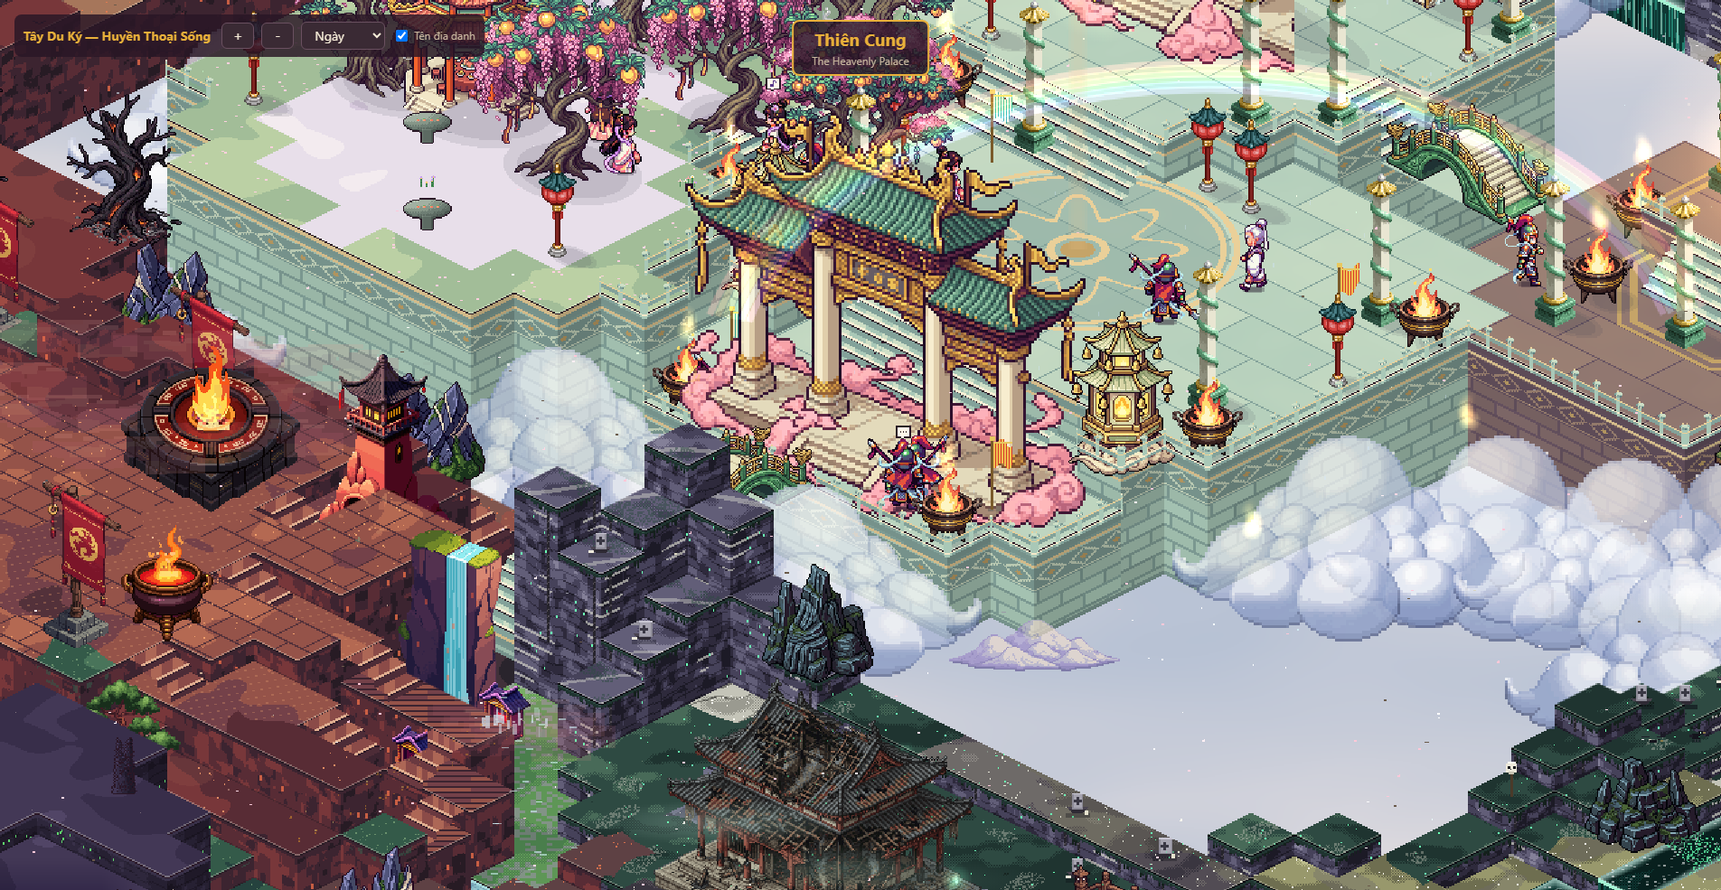
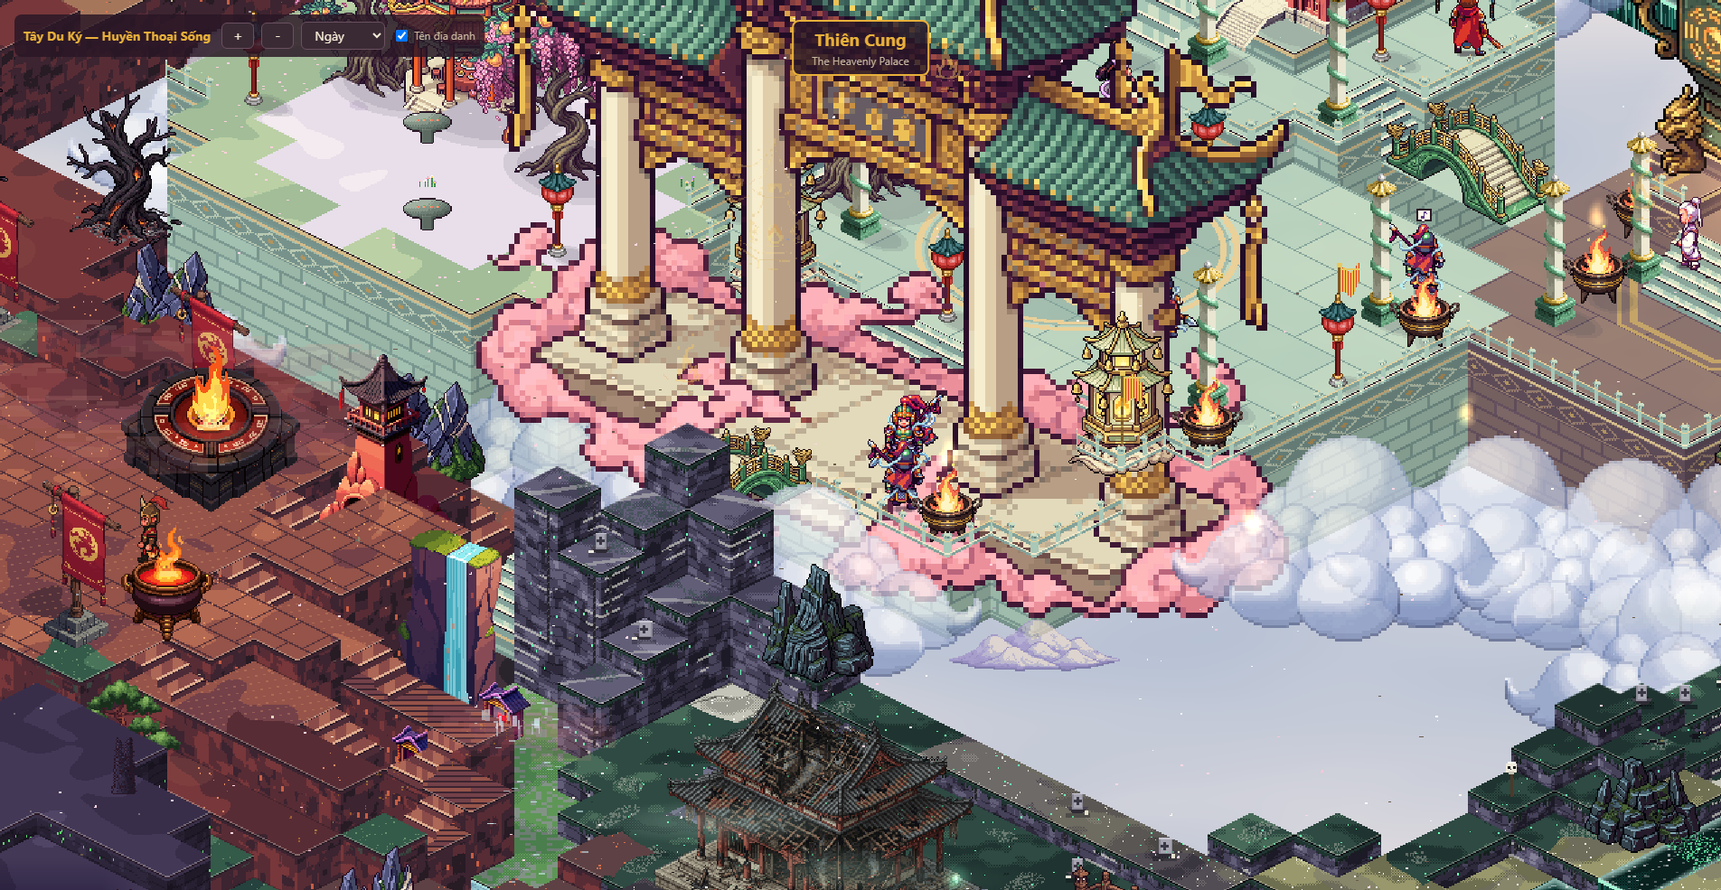
Thiên Cung phase 2: real tiers (3/5/8/10, furnace dais 9), double-size Nam Thiên Môn, Linh Tiêu hall and furnace, jade pond, furnace cracks and debris, kick beat in the furnace signature

diff --git a/tayduky/tw-tc2.js b/tayduky/tw-tc2.js
@@ -5,12 +5,21 @@
 //   3 the Peach Garden (west terrace: eight divine peach trees, pavilion, banquet tables, fairies)   4 the Eight-Trigram Furnace precinct (east bronze terrace: the great kiln on a stepped dais, braziers, talisman pillars, Laojun's pavilion)
 // plus the palace terrace in the north. Residents, minis and both signatures live in tw-tc2-data.js, the living effects in tw-tc2-fx.js.
 window.TW_TC2_BUILD = function (X) {
-  const { TWM, N, H, MAT, BIO, PATHC, RES, M, prop, poi, id, inMap, hash2 } = X;
+  const { TWM, N, H, MAT, BIO, PATHC, RES, M, prop, poi, id, inMap, hash2, set, addStair } = X;
   const B = TWM.bi.tc, inB = (i, j) => inMap(i, j) && BIO[id(i, j)] === B && MAT[id(i, j)] !== M.VOID;
   const keep = new Set(['tcrail', 'tccloud', 'tcbridge', 'stairs']);
   const mine = (i, j) => { i = Math.floor(i); j = Math.floor(j); return inMap(i, j) && BIO[id(i, j)] === B; };
   TWM.props = TWM.props.filter(p => !mine(p.i, p.j) || keep.has(p.kind)); TWM.pois = TWM.pois.filter(p => p.biome !== 'tc'); TWM.lights = TWM.lights.filter(l => l.biome !== 'tc');
   const F = TWM.tc2 = { B, lamps: [], fires: [], peach: [], trees: [], pillars: [], flags: [], failed: [], gate: null, furnace: null, court: [27, 21], garden: [19, 23], dais: [36, 13] };
+  // ---- terrain: real tiers (south plaza 3 -> court 5 -> ceremony terrace 8 -> the Linh Tiêu hall platform 10; garden 7; furnace yard 5 -> 7 -> ring 8 -> dais 9), a jade pond in the garden's west edge
+  const ell = (ca, cb, ra, rb, fn) => { for (let b = Math.floor(cb - rb - 1); b <= cb + rb + 1; b++) for (let a = Math.floor(ca - ra - 1); a <= ca + ra + 1; a++) { const d = ((a + 0.5 - ca) / ra) ** 2 + ((b + 0.5 - cb) / rb) ** 2; if (inB(a, b) && d < 1) fn(a, b, d); } };
+  for (let b = 13; b <= 15; b++) for (let a = 17; a <= 26; a++) if (inB(a, b)) set(a, b, 8, M.HEAVENPAVE);
+  for (let b = 10; b <= 12; b++) for (let a = 19; a <= 26; a++) if (inB(a, b)) set(a, b, 10, M.HEAVENPAVE);
+  for (let a = 21; a <= 24; a++) { addStair(id(a, 16), id(a, 15)); PATHC[id(a, 16)] = PATHC[id(a, 15)] = 1; }
+  for (let a = 22; a <= 24; a++) { addStair(id(a, 13), id(a, 12)); PATHC[id(a, 13)] = PATHC[id(a, 12)] = 1; }
+  ell(36.5, 12.5, 3.7, 2.7, (a, b) => set(a, b, 8, M.BRONZE)); ell(36.5, 12.5, 2.5, 1.8, (a, b) => set(a, b, 9, M.BRONZE)); for (let a = 35; a <= 37; a++) set(a, 14, 7, M.BRONZE);
+  for (let b = 20; b <= 22; b++) for (let a = 14; a <= 15; a++) if (inB(a, b)) set(a, b, 6, M.POOL); TWM.water.push({ type: 'ell', c: [15.5, 21.5], rx: 1.5, ry: 2.2, mat: M.POOL });
+  for (let k = 0; k < N * N; k++) { if (BIO[k] !== B || MAT[k] === M.VOID || MAT[k] === M.CLOUD || MAT[k] === M.POOL) continue; const i = k % N, j = Math.floor(k / N); for (const [da, db] of [[1, 0], [0, 1]]) { const z = id(i + da, j + db); if (BIO[z] !== B || MAT[z] === M.CLOUD || MAT[z] === M.VOID || MAT[z] === M.POOL || MAT[z] === M.HEAVENBRIDGE || MAT[k] === M.HEAVENBRIDGE) continue; if (Math.abs(H[k] - H[z]) === 1 && !TWM.stairs.has(k + ',' + z)) { TWM.stairs.set(k + ',' + z, 1); TWM.stairs.set(z + ',' + k, 1); } } }
   const walk = m => m === M.HEAVENPAVE || m === M.HEAVEN || m === M.PEACHLAWN || m === M.BRONZE || m === M.HEAVENBRIDGE;
   const blocked = new Set(), rb = () => { blocked.clear(); for (const p of TWM.props) if (p.block && mine(p.i, p.j)) { const fw = p.fp ? p.fp[0] : 1, fh = p.fp ? p.fp[1] : 1; for (let q = 0; q < fh; q++) for (let r = 0; r < fw; r++) blocked.add(id(p.i + r, p.j + q)); } };
   const free = (a, b) => inB(a, b) && walk(MAT[id(a, b)]) && !blocked.has(id(a, b));
@@ -20,7 +29,7 @@ window.TW_TC2_BUILD = function (X) {
   const Q = (kind, a, b, o) => { const s = snap(a, b, 2); if (!s) { F.failed.push('poi:' + kind + '@' + a + ',' + b); return null; } const p = poi(kind, 'tc', s[0], s[1], o); if (p) RES[id(s[0], s[1])] = 1; return p; };
   const LT = (a, b, r, col, kind) => TWM.lights.push({ biome: 'tc', i: a, j: b, r, col, kind: kind || 'lantern' });
   // ---- 1. Nam Thiên Môn: the great gate across the south plaza, with lantern towers either side
-  F.gate = L1('tcgate', 25, 26, { fp: [7, 2], piers: [[0, 1], [2, 1], [4, 0], [6, 0]], v: 0 });
+  F.gate = L1('tcgate', 24, 26, { fp: [9, 2], piers: [[0, 1], [2, 1], [6, 0], [8, 0]], v: 0 });
   for (const [a, b] of [[24, 25], [32, 25]]) { if (L1('tclantern', a, b, { v: 1 })) { F.lamps.push([a, b]); LT(a, b, 64, '255,202,125'); } }
   for (const [a, b] of [[25, 28], [31, 28]]) if (L1('tcbrazier', a, b, { v: 0 })) { F.fires.push([a, b]); LT(a, b, 50, '255,159,80', 'fire'); }
   // ---- 2. the Court of Heaven
@@ -28,9 +37,9 @@ window.TW_TC2_BUILD = function (X) {
   for (const [a, b] of [[23, 21], [33, 21], [27, 24], [27, 18]]) { if (L1('tcsilklamp', a, b, { v: 1 })) { F.lamps.push([a, b]); LT(a, b, 48, '255,202,125'); } }
   for (const [a, b] of [[22, 19], [34, 19], [22, 24], [34, 24]]) if (L1('tcbrazier', a, b, { v: 0 })) { F.fires.push([a, b]); LT(a, b, 46, '255,159,80', 'fire'); }
   // ---- the palace terrace (north): two halls, the gatehouse and the inner gate
-  L1('tcgate', 20, 14, { fp: [7, 2], piers: [[0, 1], [2, 1], [4, 0], [6, 0]], v: 0 }); L1('tcgatehouse', 22, 10, { fp: [2, 2], v: 0 }); L1('tcpalace', 18, 11, { fp: [2, 2], v: 0 }); L1('tcpalace', 26, 11, { fp: [2, 2], v: 0, flip: true });
-  for (const [a, b] of [[20, 17], [27, 17], [19, 12], [29, 12]]) if (L1('tcpillar', a, b, { v: 0 })) F.pillars.push([a, b]);
-  for (const [a, b] of [[22, 18], [27, 18], [21, 13], [29, 13]]) { if (L1('tcsilklamp', a, b, { v: 1 })) { F.lamps.push([a, b]); LT(a, b, 48, '255,202,125'); } }
+  F.hall = L1('tcpalace', 22, 10, { fp: [2, 2], v: 0, big: true }); L1('tcpalace', 17, 11, { fp: [2, 2], v: 1 }); L1('tcpalace', 27, 11, { fp: [2, 2], v: 0, flip: true }); L1('tcgatehouse', 20, 14, { fp: [2, 2], v: 0 }); L1('tcgatehouse', 25, 14, { fp: [2, 2], v: 0 });
+  for (const [a, b] of [[21, 16], [25, 16], [19, 13], [26, 13], [20, 11], [26, 11]]) if (L1('tcpillar', a, b, { v: 0 })) F.pillars.push([a, b]);
+  for (const [a, b] of [[22, 17], [24, 17], [18, 14], [27, 14]]) { if (L1('tcsilklamp', a, b, { v: 1 })) { F.lamps.push([a, b]); LT(a, b, 48, '255,202,125'); } }
   // ---- 3. the Peach Garden (west terrace)
   const TREES = [[15, 20], [17, 19], [19, 19], [21, 20], [15, 23], [18, 22], [21, 23], [16, 26], [20, 26], [23, 22]];
   TREES.forEach(([a, b], n) => { const p = L1('tcpeach', a, b, { v: n % 2 }); if (p) { F.trees.push([p.i, p.j]); Q('orchard', p.i + 1, p.j, { face: 'left', cap: 1 }); } });
@@ -39,10 +48,10 @@ window.TW_TC2_BUILD = function (X) {
   for (const [a, b] of [[15, 21], [16, 23], [18, 24], [19, 28], [21, 27], [14, 27], [22, 25], [17, 21], [20, 22]]) L1('flowers', a, b, { block: false });
   for (const [a, b] of [[22, 20], [14, 24], [15, 28], [22, 28]]) { if (L1('tcsilklamp', a, b, { v: 1 })) { F.lamps.push([a, b]); LT(a, b, 48, '255,190,200'); } }
   // ---- 4. the Eight-Trigram Furnace: the kiln on the bronze terrace, flanked by braziers and talisman pillars
-  F.furnace = L1('tcfurnace', 35, 12, { fp: [2, 2], v: 1 }); LT(36, 13, 130, '255,143,60', 'fire'); LT(36, 12, 70, '255,200,120', 'fire');
-  for (const [a, b] of [[33, 14], [38, 16], [34, 11], [39, 12], [37, 15], [34, 16]]) if (L1('tcbrazier', a, b, { v: 0 })) { F.fires.push([a, b]); LT(a, b, 52, '255,159,80', 'fire'); }
-  for (const [a, b] of [[34, 13], [38, 13], [36, 10], [36, 16]]) if (L1('tcpillar', a, b, { v: 0 })) F.pillars.push([a, b]);
-  L1('tcpavilion', 38, 11, { fp: [2, 2], v: 0 });
+  F.furnace = L1('tcfurnace', 35, 12, { fp: [2, 2], v: 1, big: true }); LT(36, 13, 130, '255,143,60', 'fire'); LT(36, 12, 70, '255,200,120', 'fire');
+  for (const [a, b] of [[33, 14], [39, 15], [33, 11], [40, 12], [38, 16], [34, 16]]) if (L1('tcbrazier', a, b, { v: 0 })) { F.fires.push([a, b]); LT(a, b, 52, '255,159,80', 'fire'); }
+  for (const [a, b] of [[34, 15], [38, 15], [34, 10], [39, 10]]) if (L1('tcpillar', a, b, { v: 0 })) F.pillars.push([a, b]);
+  L1('tcpavilion', 40, 13, { fp: [2, 2], v: 0 });
   // ---- posts (same kinds as the pilot so the existing activities keep working, plus new ones)
   Q('court', 27, 21, { cap: 15 }); Q('banquet', 19, 27, { cap: 12 }); Q('furnace', 36, 14, { cap: 2, face: 'up' });
   for (const [a, b] of [[23, 17], [27, 17]]) Q('gatepost', a, b, { cap: 3 });
@@ -50,8 +59,8 @@ window.TW_TC2_BUILD = function (X) {
   for (const [a, b] of [[26, 28], [30, 28]]) Q('southgate', a, b, { cap: 3, face: 'up' });
   for (const [a, b] of [[34, 21], [30, 22], [25, 21]]) Q('drill', a, b, { cap: 4 });
   for (const [a, b] of [[37, 14], [35, 15]]) Q('flame_watch', a, b, { cap: 2, face: 'up' });
-  for (const [a, b] of [[28, 13], [23, 12]]) Q('terrace', a, b, { cap: 3, face: 'down' });
-  F.flags = [[24, 20], [32, 20], [25, 27], [31, 27], [36, 10], [20, 12]];
+  for (const [a, b] of [[23, 14], [21, 12]]) Q('terrace', a, b, { cap: 3, face: 'down' });
+  F.flags = [[24, 20], [32, 20], [24, 25], [32, 25], [34, 10], [19, 11], [26, 12]];
   TWM.homes = TWM.homes || {};
 };
 window.TW_TC2_FINAL = function (X) {

diff --git a/tayduky/tw-tc2-data.js b/tayduky/tw-tc2-data.js
@@ -6,7 +6,7 @@
 (function () {
   const S = TWS, H = S.H, D = window.TW_DATA, B = 'tc', T = 8;
   const clamp = (v, a, b) => Math.max(a, Math.min(b, v)), ease = (v, t, r, dt) => Math.abs(t - v) <= r * dt ? t : v + Math.sign(t - v) * r * dt;
-  const newState = () => ({ heat: 0.3, heatT: 0.3, lid: 0, lidT: 0, runes: 0, runesT: 0, storm: 0, stormT: 0, flash: 0, shake: 0, shakeT: 0, bursts: [], flocks: [], peachfall: [], rainbow: 0, rainbowT: 0, lampPulse: 0, cloud: 0, cloudT: 0, petalBoost: 0, caption: null, capT: 0, focus: null, focusT: 0, flameUp: 0, lidFly: null });
+  const newState = () => ({ heat: 0.3, heatT: 0.3, lid: 0, lidT: 0, runes: 0, runesT: 0, storm: 0, stormT: 0, flash: 0, shake: 0, shakeT: 0, bursts: [], flocks: [], peachfall: [], rainbow: 0, rainbowT: 0, lampPulse: 0, cloud: 0, cloudT: 0, petalBoost: 0, caption: null, capT: 0, focus: null, focusT: 0, flameUp: 0, lidFly: null, debris: [], crack: 0 });
   const baseInit = S.init, baseTick = S.tick;
   S.init = function (seed) { S.tc2 = newState(); baseInit(seed); };
   const timers = []; const later = (sec, fn) => timers.push({ at: S.t + sec, fn });
@@ -15,7 +15,7 @@
     f.heat = ease(f.heat, f.heatT, 0.5, dt); f.lid = ease(f.lid, f.lidT, 2, dt); f.runes = ease(f.runes, f.runesT, 0.8, dt); f.storm = ease(f.storm, f.stormT, 0.35, dt); f.rainbow = ease(f.rainbow, f.rainbowT, 0.25, dt); f.cloud = ease(f.cloud, f.cloudT, 0.25, dt);
     f.flash = Math.max(0, f.flash - dt * 1.8); f.shake = ease(f.shake, f.shakeT, 1.6, dt); f.lampPulse = Math.max(0, f.lampPulse - dt * 0.5); f.flameUp = Math.max(0, f.flameUp - dt * 0.5); f.petalBoost = Math.max(0, f.petalBoost - dt * 0.05);
     for (const q of f.flocks) { q.t += dt; q.x += q.vx * dt; q.y += q.vy * dt; } f.flocks = f.flocks.filter(q => q.t < q.life); for (const b of f.bursts) b.t += dt; f.bursts = f.bursts.filter(b => b.t < 3.2);
-    for (const q of f.peachfall) q.t += dt; f.peachfall = f.peachfall.filter(q => q.t < 3.5); if (f.lidFly) { f.lidFly.t += dt; if (f.lidFly.t > 3) f.lidFly = null; }
+    for (const q of f.peachfall) q.t += dt; f.peachfall = f.peachfall.filter(q => q.t < 3.5); if (f.lidFly) { f.lidFly.t += dt; if (f.lidFly.t > 3) f.lidFly = null; } for (const d of f.debris) { d.t += dt; d.x += d.vx * dt; d.y += d.vy * dt; d.z += d.vz * dt; d.vz -= 140 * dt; if (d.z < 0) { d.z = 0; d.vz *= -0.3; d.vx *= 0.6; d.vy *= 0.6; } } f.debris = f.debris.filter(d => d.t < 4); f.crack = ease(f.crack, f.crackT || 0, 0.8, dt);
     for (let i = timers.length - 1; i >= 0; i--) if (S.t >= timers[i].at) { const t = timers.splice(i, 1)[0]; t.fn(); }
   };
   const burst = (x, y, kind) => S.tc2.bursts.push({ x, y, t: 0, kind: kind || 'gold' });
@@ -77,14 +77,14 @@
   O.tc_f_enter = (R, o) => { const k = king(); if (!k) { R.wait = 1; return; } k.story = R; k.hidden = false; k.alpha = 1; focus(COURT, 8); cap('Ngộ Không bị giải vào Lò Bát Quái', 'Wukong is marched to the Eight-Trigram Furnace', 6);
     const f = FURN(); H.assign(k, [H.go(COURT[0], COURT[1], { run: 1.2 }), H.go(f[0] - 6, f[1] + 8, { run: 3.6 }), { k: 'bubble', kind: 'excl' }, { k: 'idle', t: 600 }], 'story'); pend(R, () => k.cur && k.cur.k === 'idle'); };
   O.tc_f_seal = (R, o) => { const f = S.tc2, k = king(); f.lidT = 1; f.heatT = 1; f.runesT = 1; f.stormT = 0.5; focus(FURN(), 10); cap('Nắp lò đóng lại — phù chú xoay tròn', 'The lid shuts; the talismans spin', 5); if (k) { k.hidden = true; burst(...FURN(), 'gold'); } R.wait = o.t || 3.5; };
-  O.tc_f_burn = (R, o) => { const f = S.tc2; f.heatT = 1; f.flameUp = 1; f.stormT = 1; f.shakeT = 0.35; focus(FURN(), 10); cap('Lửa lên cao — mây đen kéo tới, mặt đất rung', 'The fire climbs; black clouds gather; the ground trembles', 6);
+  O.tc_f_burn = (R, o) => { const f = S.tc2; f.crackT = 1; f.heatT = 1; f.flameUp = 1; f.stormT = 1; f.shakeT = 0.35; focus(FURN(), 10); cap('Lửa lên cao — mây đen kéo tới, mặt đất rung', 'The fire climbs; black clouds gather; the ground trembles', 6);
     for (let q = 0; q < 5; q++) later(q * 1.4, () => { burst(FURN()[0] + (S.R() - 0.5) * 16, FURN()[1], 'ember'); f.shakeT = 0.35 + q * 0.12; f.flameUp = 1; }); for (const a of fairies(4)) look(FURN(), [a]); R.wait = o.t || 7; };
   O.tc_f_break = (R, o) => { const f = S.tc2, k = king(), fp = FURN(); f.lidT = 0; f.lidFly = { t: 0 }; f.flash = 1.2; f.shakeT = 1.4; f.runesT = 0; f.heatT = 1; focus(COURT, 10); cap('Ngộ Không đạp tung lò bay ra!', 'Wukong kicks the furnace apart and bursts out!', 6);
-    burst(fp[0], fp[1], 'shock'); later(0.4, () => burst(fp[0], fp[1], 'gold')); later(0.9, () => burst(COURT[0], COURT[1], 'ember')); flock(18, fp[0], fp[1], -6, -10, 14);
-    if (k) { k.hidden = false; k.x = fp[0]; k.y = fp[1] - 4; H.assign(k, [{ k: 'mount' }, { k: 'soar', x: COURT[0], y: COURT[1], lift: 90, speed: 62 }, { k: 'flip', t: 0.7, rise: 22, keepFly: true }, { k: 'land', t: 0.6 }, { k: 'act', t: 1.2 }, { k: 'idle', t: 600 }], 'story'); }
+    burst(fp[0], fp[1], 'shock'); f.crackT = 0; for (let q = 0; q < 18; q++) { const a = q * 0.35 + S.R(); f.debris.push({ x: fp[0], y: fp[1] - 6, z: 30 + S.R() * 50, vx: Math.cos(a) * (30 + S.R() * 50), vy: Math.sin(a) * (20 + S.R() * 30) - 10, vz: 60 + S.R() * 110, t: 0, s: 3 + Math.floor(S.R() * 4), r: S.R() * 6 }); } later(0.4, () => burst(fp[0], fp[1], 'gold')); later(0.9, () => burst(COURT[0], COURT[1], 'ember')); flock(18, fp[0], fp[1], -6, -10, 14);
+    if (k) { k.hidden = false; k.alpha = 1; k.x = fp[0]; k.y = fp[1] + 7; H.assign(k, [{ k: 'face', dir: 'up' }, { k: 'act', t: 0.7 }, { k: 'mount' }, { k: 'soar', x: COURT[0], y: COURT[1], lift: 90, speed: 62 }, { k: 'flip', t: 0.7, rise: 22, keepFly: true }, { k: 'land', t: 0.6 }, { k: 'act', t: 1.2 }, { k: 'idle', t: 600 }], 'story'); }
     scatter(guards(6), fp); for (const a of fairies(6)) scatter([a], fp); later(1.6, () => { f.shakeT = 0; f.stormT = 0.4; }); R.wait = o.t || 4; pend(R, () => !k || (k.cur && k.cur.k === 'idle')); };
   O.tc_f_land = (R, o) => { const f = S.tc2; f.petalBoost = 1; f.flash = 0.4; focus(COURT, 8); cap('Thiên binh hoảng loạn tản ra', 'The heavenly guard scatters in panic', 5); burst(COURT[0], COURT[1], 'shock'); R.wait = o.t || 3; };
-  O.tc_f_settle = (R, o) => { const f = S.tc2; f.heatT = 0.3; f.stormT = 0; f.runesT = 0; f.shakeT = 0; f.lidT = 0; focus(FURN(), 8); cap('Lò dịu dần — Thiên Cung trở lại yên tĩnh', 'The furnace dies down; the palace grows calm again', 5); O.tc_release(R, o); R.wait = o.t || 3; };
+  O.tc_f_settle = (R, o) => { const f = S.tc2; f.heatT = 0.3; f.stormT = 0; f.runesT = 0; f.shakeT = 0; f.lidT = 0; f.crackT = 0; focus(FURN(), 8); cap('Lò dịu dần — Thiên Cung trở lại yên tĩnh', 'The furnace dies down; the palace grows calm again', 5); O.tc_release(R, o); R.wait = o.t || 3; };
   O.tc_peace = (R, o) => { const f = S.tc2; f.heatT = 0.3; f.stormT = 0; f.runesT = 0; f.shakeT = 0; f.lidT = 0; f.focus = null; f.cloudT = 0; f.rainbowT = 0; O.tc_release(R, o); };
   D.beacon.tc = '255,211,150';
   const old = D.biomes.tc;

diff --git a/tayduky/tw-tc2-fx.js b/tayduky/tw-tc2-fx.js
@@ -16,12 +16,20 @@ window.TWFX = window.TWFX || {};
   const scr = (R, x, y, dz) => [R.wx(x, y), R.wy(x, y, ground(x, y) + (dz || 0))];
   function crane(g, x, y, t, ph, face) { const fl = Math.sin(t * 3.4 + ph), up = fl > 0 ? 3 : -2; px(g, x - 5, y, 11, 3, '#fffdf4'); px(g, x + 5 * face, y - 1, 3, 2, '#fffdf4'); px(g, x + 8 * face, y - 1, 2, 1, '#d83030'); px(g, x - 16, y + up - 3, 11, 2, '#fff'); px(g, x + 5, y + up - 3, 11, 2, '#fff'); px(g, x - 20, y + up - 1, 4, 1, '#222'); px(g, x + 16, y + up - 1, 4, 1, '#222'); px(g, x - 7 * face, y + 3, 5, 1, '#222'); }
   function bird(g, X, Y, t, ph, c) { const up = Math.sin(t * 9 + ph) > 0 ? 2 : -1; px(g, X - 1, Y, 3, 2, c); px(g, X - 5, Y + up - 1, 4, 1, c); px(g, X + 2, Y + up - 1, 4, 1, c); }
+  // ---------------------------------------------------------------- the landmarks drawn at twice the size: Nam Thiên Môn, the Eight-Trigram Furnace and the Linh Tiêu hall
+  const prevSprite = A.ext && A.ext.sprite; A.ext = A.ext || {};
+  A.ext.sprite = p => {
+    const key = p.kind === 'tcgate' ? 'tc_monument_a' : p.kind === 'tcfurnace' ? 'tc_kiln_a' : p.kind === 'tcpalace' && p.big ? 'tc_palace_a' : null, im = key && A.IMG[key];
+    if (!im) return prevSprite ? prevSprite(p) : null; const K = 2;
+    return { w: im.w * K, h: im.h * K, py: im.py * K, frames: [im.im], em: null, glow: null, silk: null, flat: false, img: true, draw(g, s, f) { const sv = g.imageSmoothingEnabled; g.imageSmoothingEnabled = false; g.drawImage(f, 0, 0, f.width, f.height, s.X, s.Y, f.width * K, f.height * K); g.imageSmoothingEnabled = sv; } };
+  };
   // ---------------------------------------------------------------- depth-sorted: silk banners on poles and the flying lid
   function banner(g, X, Y, t, ph, col) { px(g, X, Y - 52, 2, 52, '#7a5a2a'); px(g, X - 1, Y - 54, 4, 3, '#e8c860'); for (let q = 0; q < 14; q++) { const w = Math.sin(t * 2.6 + ph + q * 0.5) * (1 + q * 0.25); g.fillStyle = col[q % 2 ? 0 : 1]; g.fillRect(Math.round(X + 2 + q), Math.round(Y - 50 + w), 1, 18 - (q > 9 ? q - 9 : 0)); } px(g, X + 2, Y - 50, 14, 1, '#e8c860'); }
   function drawables(D, R) {
     const f = st(), Fm = F(); if (!f || !Fm || !near(R)) return; const t = R.t;
     for (const [n, c] of Fm.flags.entries()) { const x = (c[0] + 0.5) * T, y = (c[1] + 0.5) * T, [X, Y] = scr(R, x, y); if (inView(R, X, Y, 60)) D.push([x + y + 0.2, 5, { draw: g => banner(g, X, Y, t, n * 1.7, n % 2 ? ['#d83a2a', '#f0c050'] : ['#2a9a8a', '#f0e8c0']) }]); }
     for (const [n, c] of Fm.fires.entries()) { const x = (c[0] + 0.5) * T, y = (c[1] + 0.5) * T, [X, Y] = scr(R, x, y, 10); if (!inView(R, X, Y, 40)) continue; D.push([x + y + 0.3, 5, { draw: g => { g.globalCompositeOperation = 'lighter'; for (let q = 0; q < 5; q++) { const u = (t * 1.4 + q / 5 + n * 0.3) % 1; blob(g, X + Math.sin(t * 5 + q + n) * 2, Y - 8 - u * 22, 5 + (1 - u) * 4, q % 2 ? '255,150,50' : '255,220,110', (1 - u) * (0.5 + f.heat * 0.3)); } g.globalCompositeOperation = 'source-over'; } }]); }
+    for (const d of f.debris) { const [X, Y] = [R.wx(d.x, d.y), R.wy(d.x, d.y, ground(d.x, d.y) + d.z / 4)]; if (!inView(R, X, Y, 20)) continue; D.push([d.x + d.y + 30, 5, { draw: g => { g.save(); g.translate(X, Y); g.rotate(d.r + d.t * 6); g.fillStyle = '#7a5a2a'; g.fillRect(-d.s, -d.s / 2, d.s * 2, d.s); g.fillStyle = '#e8c860'; g.fillRect(-d.s, -d.s / 2, d.s * 2, 1); g.restore(); if (d.t < 1.5) { g.globalCompositeOperation = 'lighter'; blob(g, X, Y, 8, '255,150,60', 0.4 * (1 - d.t / 1.5)); g.globalCompositeOperation = 'source-over'; } } }]); }
     if (f.lidFly) { const L = f.lidFly, [fx, fy] = furn(), u = L.t / 3, x = fx + u * 60, y = fy - u * 10, z = Math.sin(u * 3.14) * 180, [X, Y] = [R.wx(x, y), R.wy(x, y, ground(fx, fy) + z / 4) - 30]; D.push([x + y + 40, 5, { draw: g => { g.save(); g.translate(X, Y); g.rotate(u * 9); g.fillStyle = '#6a4a22'; g.beginPath(); g.ellipse(0, 0, 16, 7, 0, 0, 6.2832); g.fill(); g.strokeStyle = '#e8c860'; g.lineWidth = 2; g.stroke(); g.restore(); g.globalCompositeOperation = 'lighter'; blob(g, X, Y, 26, '255,170,70', 0.5 * (1 - u)); g.globalCompositeOperation = 'source-over'; } }]); }
     for (const q of f.peachfall) { if (q.t < 0) continue; const u = q.t / 3, z = (1 - u) * 90, [X, Y] = [R.wx(q.x, q.y), R.wy(q.x, q.y, ground(q.x, q.y) + z / 4)]; if (!inView(R, X, Y, 30)) continue; D.push([q.x + q.y + 3, 5, { draw: g => { g.globalCompositeOperation = 'lighter'; blob(g, X, Y, 14, '255,190,200', 0.45 * (1 - u * 0.5)); g.globalCompositeOperation = 'source-over'; px(g, X - 2, Y - 2, 5, 5, '#ffb0b8'); px(g, X - 1, Y - 3, 3, 1, '#ffe8ec'); px(g, X + 1, Y - 4, 2, 2, '#4a9a5a'); if (u > 0.92) ring(g, X, Y + 2, 8, 3, 'rgba(255,200,210,0.6)', 1); } }]); }
   }
@@ -37,6 +45,8 @@ window.TWFX = window.TWFX || {};
     const r = f.runes; if (r > 0.02) { const rot = t * 0.7; for (const [rx, ry, w] of [[64, 26, 2], [88, 36, 1.5], [44, 18, 1]]) ring(g, X, Y0 + 6, rx * r, ry * r, `rgba(255,196,90,${0.8 * r})`, w);
       for (let q = 0; q < 8; q++) { const a = rot + q * 0.7854, x = X + Math.cos(a) * 76 * r, y = Y0 + 6 + Math.sin(a) * 31 * r; g.fillStyle = `rgba(255,224,130,${0.9 * r})`; for (let s = 0; s < 3; s++) { if ((q + s) % 3 === 0) g.fillRect(Math.round(x - 5), Math.round(y - 4 + s * 3), 4, 1), g.fillRect(Math.round(x + 1), Math.round(y - 4 + s * 3), 4, 1); else g.fillRect(Math.round(x - 5), Math.round(y - 4 + s * 3), 10, 1); } blob(g, x, y, 10, '255,200,100', 0.3 * r); }
       for (let q = 0; q < 6; q++) { const a = -rot * 1.3 + q * 1.047, u = (t * 0.5 + q / 6) % 1, x = X + Math.cos(a) * 40 * r, y = Y - u * 90; g.fillStyle = `rgba(255,236,150,${(1 - u) * 0.9 * r})`; g.fillRect(Math.round(x), Math.round(y), 3, 8); } }
+    // cracks glowing through the bronze while the furnace shakes
+    if (f.crack > 0.02) { g.strokeStyle = `rgba(255,${200 - f.crack * 40},90,${0.9 * f.crack})`; g.lineWidth = 2; for (let q = 0; q < 6; q++) { let cx = X + (q - 2.5) * 12, cy = Y - 60 - (q % 2) * 20; g.beginPath(); g.moveTo(cx, cy); for (let s2 = 0; s2 < 5; s2++) { cx += (hash(q, s2, 1420) - 0.5) * 14; cy += 10 + hash(q, s2, 1421) * 8; g.lineTo(cx, cy); } g.stroke(); } blob(g, X, Y - 70, 70, '255,170,70', 0.35 * f.crack); }
     // sparks
     const nsp = Math.floor(h * 26 + f.flameUp * 30); for (let q = 0; q < nsp; q++) { const u = (t * 0.8 + hash(q, 2, 1402)) % 1, a = hash(q, 3, 1402) * 6.28, d = u * (30 + 60 * hash(q, 4, 1402)); g.fillStyle = `rgba(255,${180 + (q % 4) * 15},80,${(1 - u) * 0.9})`; g.fillRect(Math.round(X + Math.cos(a) * d), Math.round(Y - 20 - u * (60 + 80 * hash(q, 5, 1402)) + Math.sin(a) * 6), 2, 2); }
     // heat shimmer rings

diff --git a/docs/tayduky/v2/STATUS.md b/docs/tayduky/v2/STATUS.md
@@ -427,3 +427,6 @@ Verification and review screenshots are recorded in [`INTEGRATION-BTD-HVD.md`](I
 **Effects (`tw-tc2-fx.js`):** furnace flames / sparks / smoke / heat rings / trigram ring and talismans / flying lid, shock and ember bursts, storm cloud, thunder flash, screen shake, cranes and birds, falling peaches, rainbow, cloud banks over the gate, petals, silk banners on poles, brazier flames, lantern pulses, caption, story camera and a gold aura on Wukong.
 **Tests:** `tests/tayduky-v2-tc2-sim.mjs` (both signatures + states), `tests/tayduky-v2-tc2-shots.mjs` (screenshots in `screenshots/tc/`), map15, `tayduky-v2-sim` (its Thiên Cung coverage now expects the two signatures and at least 4 tc minis; seed 33 at 1200 s ends before `havoc_heaven` finishes: timing, not a defect). No PixelLab generations.
 **Lôi Âm Tự (`lat`) is NOT started** (still the placeholder).
+
+## Thiên Cung — Phase 2 (2026-11-22)
+Real tiers now: the south plaza 3 -> the court 5 -> the ceremony terrace 8 -> the Linh Tiêu hall platform 10 (a double-size hall), the peach garden 7 with a small jade pond on its west edge, the furnace yard 5 -> 7 -> ring 8 -> dais 9. Nam Thiên Môn and the Eight-Trigram Furnace are drawn at twice the size (code-scaled existing sprites, no PixelLab). The furnace has glowing cracks while it burns; when Wukong kicks it apart bronze shards fly (physics debris), the lid flies off and he stands in front of the furnace for a beat (kick pose) before soaring out (`screenshots/tc/tc-sig-*.png`). Not done: seam / rim treatment against Bạch Cốt Lĩnh and Hỏa Vân Động, a visible waterfall, new PixelLab art, a full review of the 13 minis at gameplay zoom; the big gate overlaps the garden and court in the wide shot.
